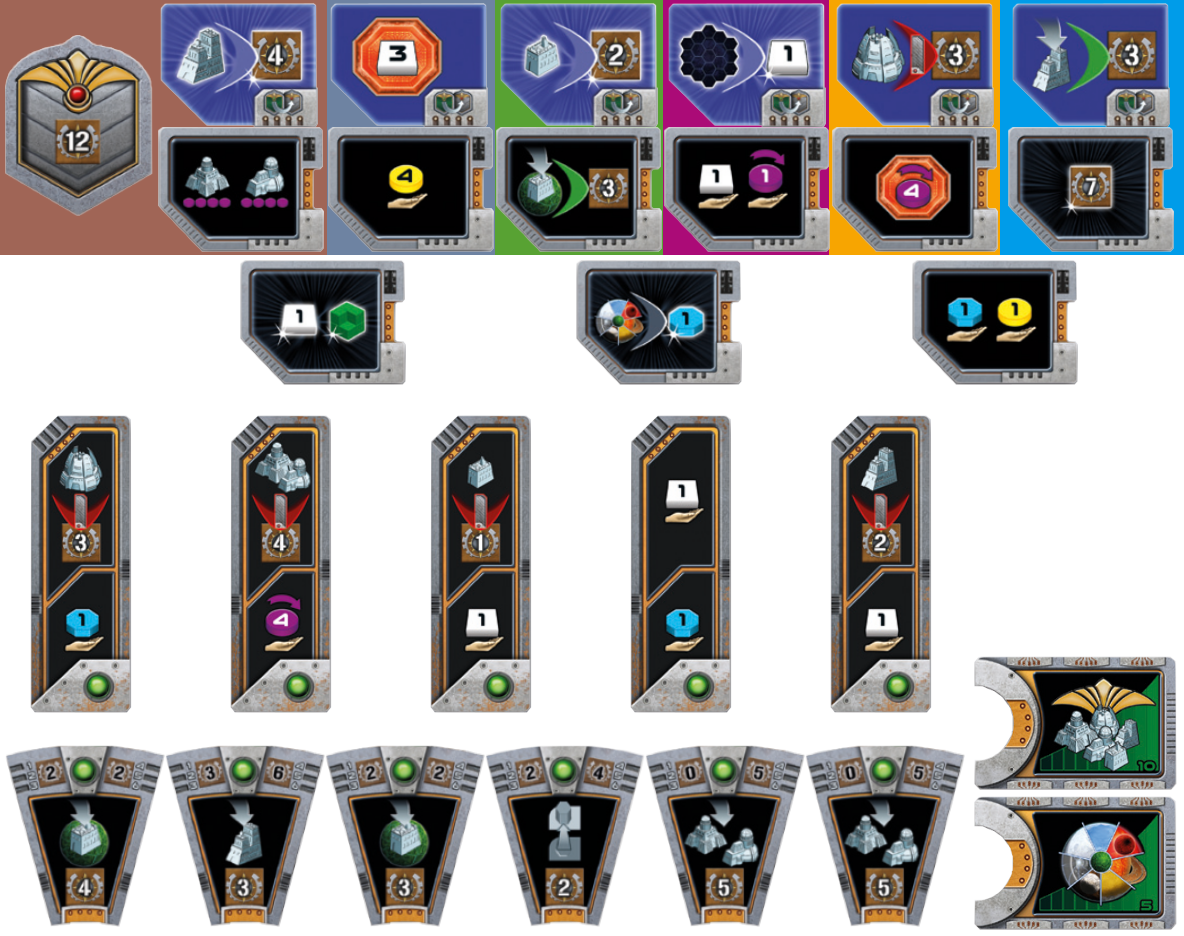
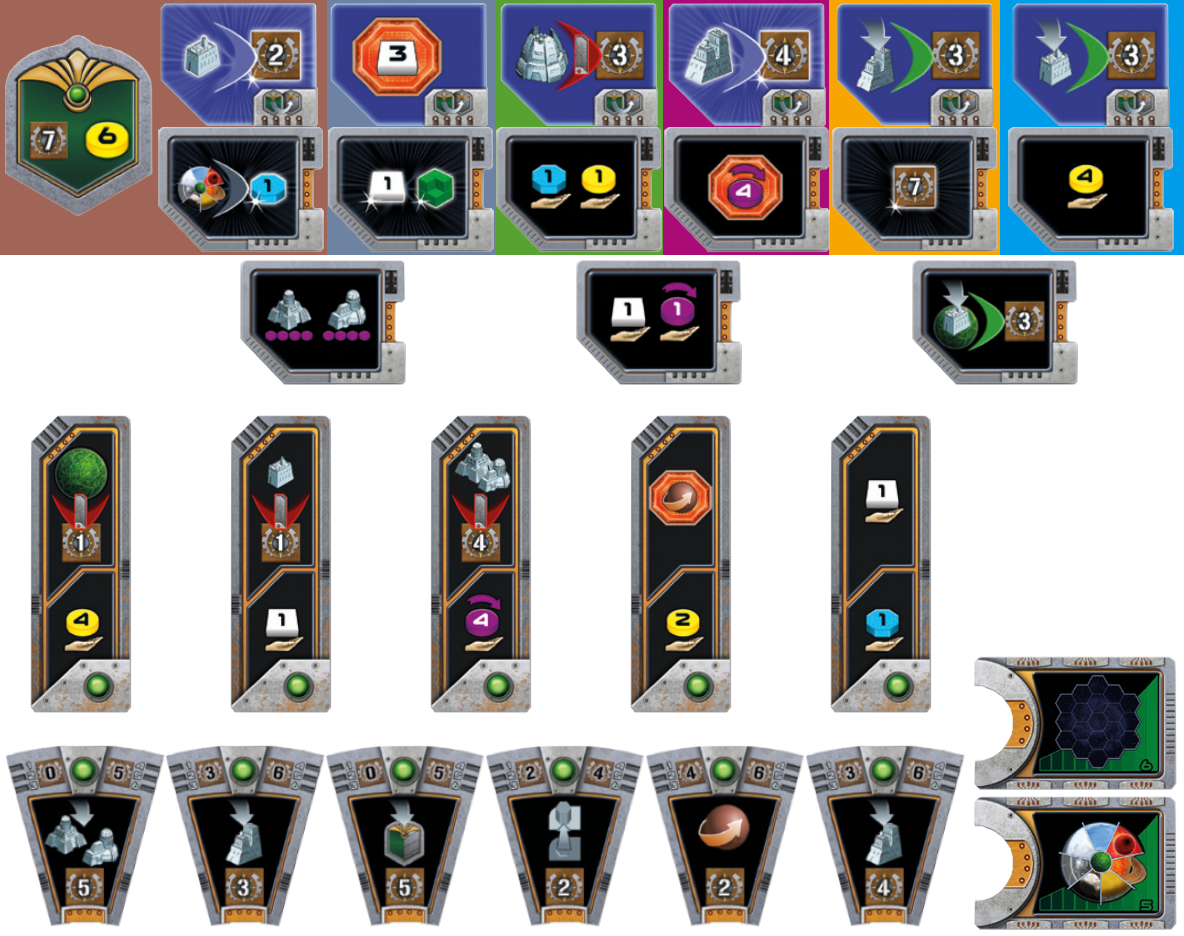
implemented gaia project action on screen

diff --git a/player.py b/player.py
@@ -61,7 +61,7 @@ class Player:
 
         # TESTING parameters.
         # Initiate testing parameters
-        self.faction._testing()
+        # self.faction._testing()
 
     def start_mine(self, count, gp, players):
         """Function for placing the initial mines.
@@ -532,7 +532,7 @@ class Player:
         else:
             print(f"!+ Only {charged} power could be charged.")
 
-    def gaia_phase(self):
+    def gaia_phase(self, gp):
         # TODO Faction incompatibility. Might not work with faction Itars,
         # Bal Tak's
         if self.faction.gaia_bowl > 0:
@@ -541,7 +541,19 @@ class Player:
             while self.gaia_forming:
                 # Set the type property of the trans-dimensional planet to Gaia
                 # as the gaia project is now completed.
-                self.gaia_forming.pop().type = "Gaia"
+                planet = self.gaia_forming.pop()
+                planet.type = "Gaia"
+
+                # Place a Gaia Planet in place of the Trans-dim planet.
+                gp.universe.place_gaia_planet(gp.screen, planet)
+
+                # Replace the Gaiaformer on the Gaia Planet.
+                gp.universe.place_structure(
+                    gp.screen,
+                    planet,
+                    self.faction.home_type,
+                    "Gaiaformer"
+                )
 
             print(
                 "\nGaia phase:\nYour Trans-dimensional planets are now Gaia "
@@ -578,7 +590,7 @@ class Player:
         # Value is a list with the function and the arguments it needs.
         options = {
             "1": [self.mine, gp, rnd],
-            "2": [self.gaia, gp.universe],
+            "2": [self.gaia, gp],
             "3": [self.upgrade, gp, rnd],
             "4": [self.federation, gp, rnd],
             "5": [self.research, gp.research_board, rnd, gp],
@@ -790,7 +802,7 @@ class Player:
                 planet = p_chosen
 
             # If the planet was gaiaformed, the player only pays for the mine.
-            if planet.structure == "gaiaformer":
+            if planet.structure == "Gaiaformer":
                 break
 
             # If this function was called from the pq action function, check
@@ -964,17 +976,19 @@ class Player:
         )
 
         planet.owner = self.faction.name
+
+        # Get back the Gaiaformer if one was on the planet.
+        if planet.structure == "Gaiaformer":
+            self.resolve_gain(
+                "gaiaformer1", "Because you built a mine on a planet "
+                "with a Gaiaformer"
+            )
+
         planet.structure = "Mine"
         self.faction.mine_built += 1
         self.empire.append(planet)
 
         if planet.type == "Gaia":
-            if planet.structure == "gaiaformer":
-                self.resolve_gain(
-                    f"gaiaformer1", "Because you built a mine on a planet "
-                    "with a Gaiaformer"
-                )
-
             # Check if the current round awards points for building a mine
             # on a Gaia planet.
             if rnd.goal == "gaiamine":
@@ -1174,11 +1188,11 @@ class Player:
         # Player wants to pay QIC.
         return qic_needed
 
-    def gaia(self, universe, p_chosen=False, action="gaia", extra_range=0):
+    def gaia(self, gp, p_chosen=False, action="gaia", extra_range=0):
         """Function for starting a Gaia Project.
 
         Args:
-            universe: The universe object used in the main GaiaProject class.
+            gp: GaiaProject main game object.
             planet: Planet object. Only used in scoring.ExtraRange class.
             p_chosen: Planet object. Only used in scoring.ExtraRange class.
             action (str): What kind of action called this function.
@@ -1211,13 +1225,13 @@ class Player:
             pay_range_qic = False
 
             if not p_chosen:
-                planet = self.choose_planet(universe, action)
+                planet = self.choose_planet(gp.universe, action)
             else:
                 planet = p_chosen
 
             # Check if the player is within range of the target planet.
             enough_range, distance = self.within_range(
-                universe, planet, available_range
+                gp.universe, planet, available_range
             )
 
             if not enough_range:
@@ -1253,8 +1267,13 @@ class Player:
         if pay_range_qic:
             self.resolve_cost(f"qic{pay_range_qic}")
 
+        gp.universe.place_structure(
+            gp.screen, planet, self.faction.home_type, "Gaiaformer"
+        )
+
         planet.owner = self.faction.name
-        planet.structure = "gaiaformer"
+        planet.structure = "Gaiaformer"
+        planet.gaiaformed = True
         self.gaia_forming.append(planet)
         self.resolve_cost("gaiaformer1")
 

diff --git a/universe.py b/universe.py
@@ -50,6 +50,7 @@ class Planet:
         self.structure = False  # Type of building built.
         self.federation = False  # Part of federation? True or False.
         self.neighbours = []  # List of opponents that are within range 2.
+        self.gaiaformed = False  # Used for Trans-dim planets.
 
     def __str__(self):
         owner = ""
@@ -808,7 +809,7 @@ class Universe:
         """
 
         # First remove the old structure if applicable.
-        if place != "Mine":
+        if place not in ["Mine", "Gaiaformer"]:
             background = pygame.image.load(
                 os.path.join(ROOT, "default_2p_map.png")
             ).convert_alpha()
@@ -826,6 +827,11 @@ class Universe:
                 (planet_x - img_x // 2, planet_y - img_y // 2, img_x, img_y)
             )
 
+        # If the planet was gaiaformed, the background will contain the
+        # Trans-dim planet, so place a Gaia Planet again first.
+        if planet.gaiaformed:
+            self.place_gaia_planet(screen, planet)
+
         # Place the new structure
         img_dir = os.path.join(IMAGES, place)
         img_path = os.path.join(img_dir, f"{home_type} {place}.png")
@@ -835,6 +841,17 @@ class Universe:
         y = planet.pixel_y - C.PLACE[place][1] // 2
 
         screen.blit(structure, (x, y))
+
+    def place_gaia_planet(self, screen, planet):
+        # Place the Gaia Planet over the Trans-dim planet.
+        img_dir = os.path.join(IMAGES, "Miscellaneous")
+        img_path = os.path.join(img_dir, "Gaia Planet.png")
+
+        gaia_planet = pygame.image.load(img_path).convert_alpha()
+        x = planet.pixel_x - C.PLACE["Gaia Planet"][0] // 2
+        y = planet.pixel_y - C.PLACE["Gaia Planet"][1] // 2
+
+        screen.blit(gaia_planet, (x, y))
 
     def distance(self, startx, starty, targetx, targety):
         """Using the universe grid to calculate distance between two planets.
@@ -930,7 +947,7 @@ class Universe:
             if planet.type in types:
                 if not planet.owner \
                         or planet.owner == player.faction.name \
-                        and planet.structure == "gaiaformer" \
+                        and planet.structure == "Gaiaformer" \
                         or action == "upgrade":
                     planets.append(planet)
 
@@ -1030,7 +1047,7 @@ class Universe:
             if not self.planets[location].owner \
                     or self.planets[location].owner \
                         == active_player.faction.name \
-                    or self.planets[location].structure == "gaiaformer":
+                    or self.planets[location].structure == "Gaiaformer":
                 continue
 
             # Opponent that is a neighbour is found.

diff --git a/automa.py b/automa.py
@@ -37,12 +37,13 @@ class Automa:
         self.satellites = 0
 
         # Research levels
-        self.terraforming = False  # This property is set during setup
-        self.navigation = False  # This property is set during setup
-        self.a_i = False  # This property is set during setup
-        self.gaia_project = False  # This property is set during setup
-        self.economy = False  # This property is set during setup
-        self.science = False  # This property is set during setup
+        # These properties are set during setup.
+        self.terraforming = False
+        self.navigation = False
+        self.a_i = False
+        self.gaia_project = False
+        self.economy = False
+        self.science = False
 
         self.passed = False  # whether or not the automa has passed.
 
@@ -354,7 +355,7 @@ class Automa:
         for card in self.remaining_deck:
             print(card)
 
-    def gaia_phase(self):
+    def gaia_phase(self, gp):
         # Automa doesn't have a gaia phase.
         pass
 
@@ -741,7 +742,7 @@ class Automa:
 
         return coords_to_check
 
-    def gaia(self, universe):
+    def gaia(self, gp):
         # Automa can't do a Gaia Project action.
         pass
 
@@ -1022,6 +1023,9 @@ class Automa:
         # Alter the chosen_track name to be in the same format as the automa
         # research level variable format.
         chosen_track_name = chosen_track.name.lower().replace(' ', '_')
+
+        if chosen_track_name == "artificial_intelligence":
+            chosen_track_name = "a_i"
 
         # Remove automa from the current level's list of players.
         current_level = eval(f"self.{chosen_track_name}")

diff --git a/scoring.py b/scoring.py
@@ -44,7 +44,7 @@ class Booster:
                 [
                     planet for planet in player.empire
                         if planet.type == "Gaia"
-                        and planet.structure != "gaiaformer"
+                        and planet.structure != "Gaiaformer"
                 ]
             )
             player.resolve_gain(f"vp{gaia_planets}", reason)
@@ -271,7 +271,7 @@ class Scoring:
                         [
                             planet for planet in player.empire
                                 if planet.type == "Gaia"
-                                and planet.strucure != "gaiaformer"
+                                and planet.strucure != "Gaiaformer"
                         ]
                     )
                     scores.append([player, end_tile_score])

diff --git a/gaia_project.py b/gaia_project.py
@@ -343,7 +343,7 @@ class GaiaProject:
             # 1. Income phase followed by # 2. Gaia phase.
             for player in self.players:
                 player.income_phase()
-                player.gaia_phase()
+                player.gaia_phase(self)
 
             # 3. Action phase
             while self.passed != len(self.players):

diff --git a/technology.py b/technology.py
@@ -274,7 +274,7 @@ class GaiaVp(AdvancedTechnology):
             [
                 planet for planet in player.empire
                     if planet.type == "Gaia"
-                    and planet.strucure != "gaiaformer"
+                    and planet.strucure != "Gaiaformer"
             ]
         )
         player.resolve_gain(

diff --git a/constants.py b/constants.py
@@ -44,7 +44,8 @@ PLACE = {
     "Academy": (63, 61),
     "Gaiaformer": (60, 36),
     "Satellite": (37, 36),
-    "Lost Planet": (59, 61)
+    "Lost Planet": (59, 61),
+    "Gaia Planet": (60, 60)
 }
 DIFFICULTY = [
     "Automalein",
